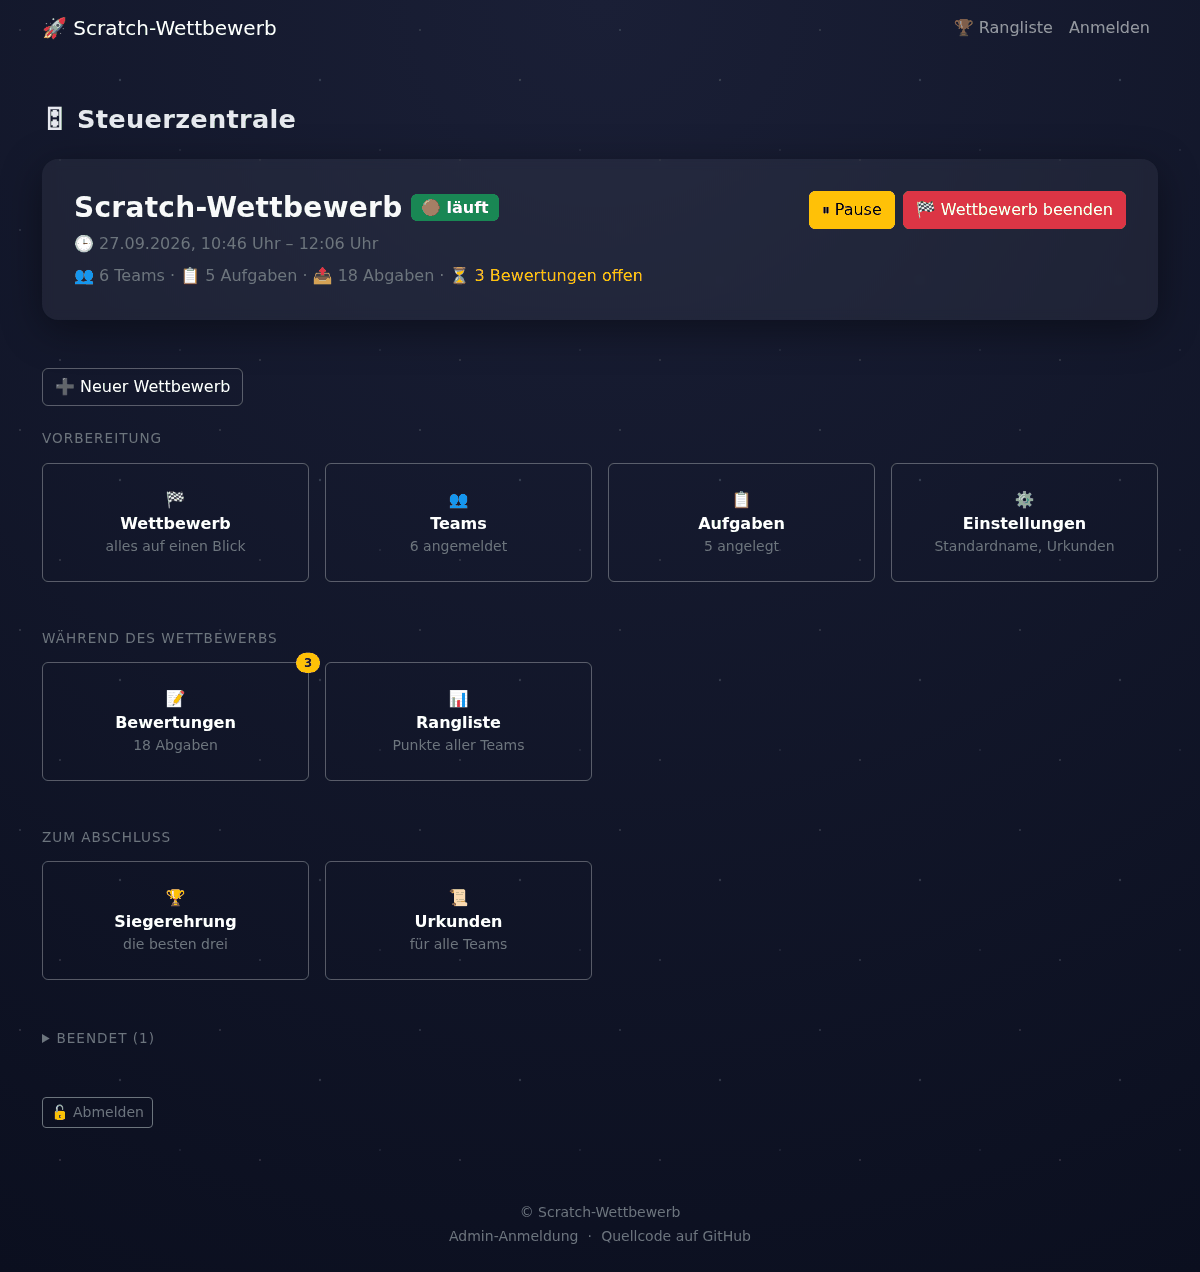
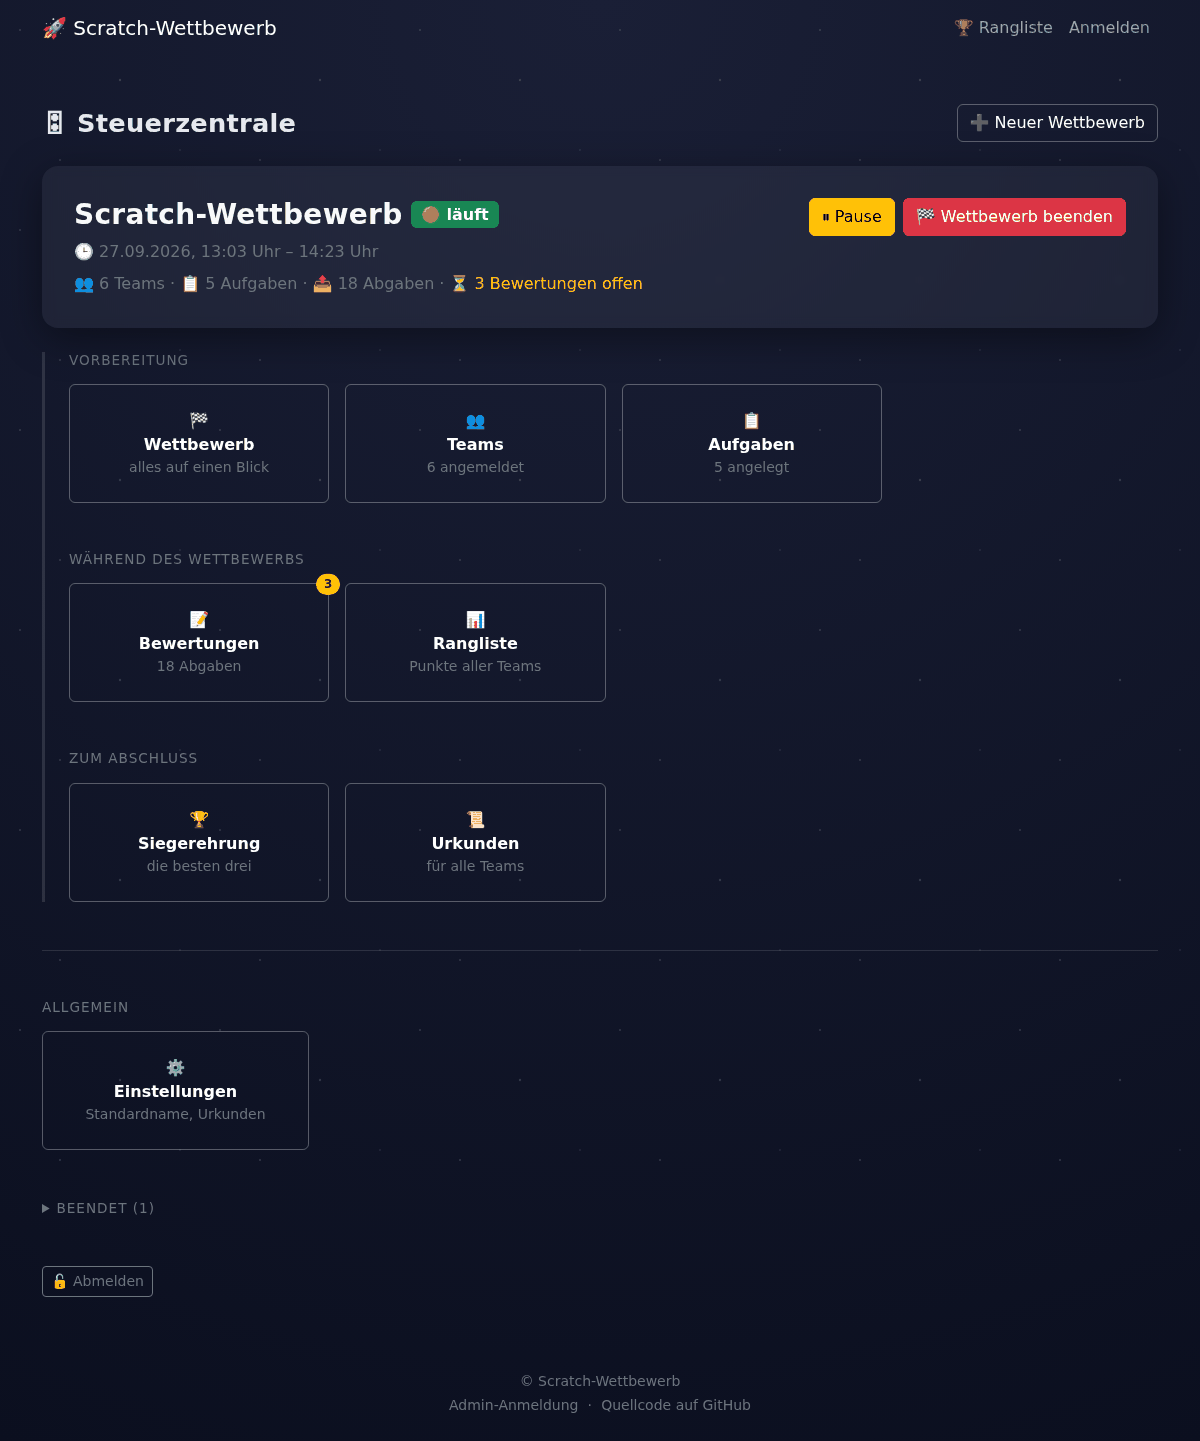
Laufenden Wettbewerb und Allgemeines trennen
Auf der Steuerzentrale stand alles in einer Reihe: die Kacheln zum
laufenden Wettbewerb und mittendrin "Einstellungen", die für die ganze
Installation gilt - Standardname, Urkundenformat, Unterschrift. Man sah
der Seite nicht an, was wovon abhängt.

Jetzt hat die Seite zwei Teile. Oben der laufende Wettbewerb: die
Statuszeile und darunter die drei Kachelgruppen, die eine Linie am linken
Rand sichtbar an sie hängt. Darunter, hinter einer Trennlinie, das
Allgemeine: die Kachel "Einstellungen" in einer eigenen Gruppe
"Allgemein", dann die weiteren Wettbewerbe und die beendeten.

"Neuer Wettbewerb" steht in der Kopfzeile neben der Überschrift. Der Knopf
gilt allgemein und hat im Bereich des laufenden Wettbewerbs nichts zu
suchen; oben bleibt er trotzdem das Erste, was man greift.

README und der Screenshot der Steuerzentrale sind mitgezogen.

Claude-Session: https://claude.ai/code/session_01WjnfkVCAnab863MntGNVAf

diff --git a/templates/admin/dashboard.html b/templates/admin/dashboard.html
@@ -1,7 +1,14 @@
 {% extends "base.html" %}
 {% block content %}
 
-<h2 class="mb-4">🎛 Steuerzentrale</h2>
+<div class="d-flex flex-wrap justify-content-between align-items-center gap-3 mb-4">
+  <h2 class="mb-0">🎛 Steuerzentrale</h2>
+  {% if challenge %}
+  <a href="{{ url_for('admin.challenge_new') }}" class="btn btn-outline-light">
+    ➕ Neuer Wettbewerb
+  </a>
+  {% endif %}
+</div>
 
 {% if not challenge %}
 
@@ -31,7 +38,9 @@
 {% set here = url_for('admin.dashboard') %}
 
 <!-- ===== STATUSZEILE: der aktuelle Wettbewerb ===== -->
-<div class="event-card mb-5">
+<!-- Knapper Abstand nach unten: Die Kachelgruppen darunter gehoeren zu
+     diesem Wettbewerb und sollen an der Statuszeile haengen. -->
+<div class="event-card mb-4">
   <div class="d-flex flex-wrap justify-content-between align-items-start gap-3">
 
     <div>
@@ -104,11 +113,11 @@
   </div>
 </div>
 
-<div class="mb-4">
-  <a href="{{ url_for('admin.challenge_new') }}" class="btn btn-outline-light">
-    ➕ Neuer Wettbewerb
-  </a>
-</div>
+<!-- ===== DER LAUFENDE WETTBEWERB =====
+     Die Linie am linken Rand haengt die drei Gruppen sichtbar an die
+     Statuszeile darueber: Alles hier drin meint diesen einen Wettbewerb.
+     Was darunter folgt, gilt fuer die ganze Installation. -->
+<div class="wettbewerb-bereich mb-5">
 
 <!-- ===== VORBEREITUNG ===== -->
 <!-- Reihenfolge wie auf der Wettbewerbsseite: erst der Wettbewerb selbst,
@@ -131,12 +140,6 @@
     <a href="{{ url_for('admin.challenge_tasks', cid=challenge.id) }}" class="btn btn-outline-light w-100 h-100 py-4">
       📋<br><strong>Aufgaben</strong>
       <div class="small text-secondary">{{ overview.tasks }} angelegt</div>
-    </a>
-  </div>
-  <div class="col-md-3 col-6">
-    <a href="{{ url_for('admin.settings') }}" class="btn btn-outline-light w-100 h-100 py-4">
-      ⚙<br><strong>Einstellungen</strong>
-      <div class="small text-secondary">Standardname, Urkunden</div>
     </a>
   </div>
 </div>
@@ -176,6 +179,24 @@
     <a href="{{ url_for('admin.certificates_print') }}" class="btn btn-outline-light w-100 h-100 py-4">
       📜<br><strong>Urkunden</strong>
       <div class="small text-secondary">für alle Teams</div>
+    </a>
+  </div>
+</div>
+
+</div><!-- /.wettbewerb-bereich -->
+
+<hr class="bereich-trenner mb-5">
+
+<!-- ===== ALLGEMEIN ===== -->
+<!-- Die Einstellungen gelten der ganzen Installation - Standardname,
+     Urkundenformat, Unterschrift. In der Reihe mit Teams und Aufgaben
+     las sie sich, als gehoerte sie zum laufenden Wettbewerb. -->
+<h5 class="text-secondary text-uppercase mb-3 section-label">Allgemein</h5>
+<div class="row g-3 mb-5">
+  <div class="col-md-3 col-6">
+    <a href="{{ url_for('admin.settings') }}" class="btn btn-outline-light w-100 h-100 py-4">
+      ⚙<br><strong>Einstellungen</strong>
+      <div class="small text-secondary">Standardname, Urkunden</div>
     </a>
   </div>
 </div>

diff --git a/static/style.css b/static/style.css
@@ -314,3 +314,23 @@ input::placeholder, textarea::placeholder {
 .wettbewerbe-beendet > summary:hover {
   color: #fff;
 }
+
+/* ====== Der laufende Wettbewerb in der Steuerzentrale ====== */
+/* Die Linie hängt die drei Kachelgruppen sichtbar an die Statuszeile: Alles
+   dahinter meint den einen Wettbewerb, der oben steht. Alles darunter -
+   Einstellungen, weitere Wettbewerbe - gilt der ganzen Installation. */
+.wettbewerb-bereich {
+  border-left: 3px solid rgba(255, 255, 255, 0.12);
+  padding-left: 1.5rem;
+}
+
+@media (max-width: 576px) {
+  .wettbewerb-bereich {
+    padding-left: 0.9rem;
+  }
+}
+
+.bereich-trenner {
+  border-color: rgba(255, 255, 255, 0.12);
+  opacity: 1;
+}

diff --git a/tests/test_admin.py b/tests/test_admin.py
@@ -141,6 +141,29 @@ class TestSteuerzentrale:
         assert "⏸ pausiert" in unten
         assert "🕒 geplant" in unten
 
+    def test_einstellungen_stehen_unter_allgemein(self, admin, make_challenge):
+        """Die Einstellungen gelten der Installation, nicht diesem Wettbewerb.
+
+        In der Reihe mit Wettbewerb, Teams und Aufgaben las sich die Kachel,
+        als gehörte sie zum laufenden Wettbewerb.
+        """
+        make_challenge(title="Aktueller Wettbewerb", active=True)
+
+        html = admin.get("/admin/dashboard").get_data(as_text=True)
+
+        oben, unten = html.split("Allgemein", 1)
+        assert "/admin/settings" not in oben.split("Vorbereitung", 1)[1]
+        assert "/admin/settings" in unten
+
+    def test_neuer_wettbewerb_steht_ueber_dem_laufenden(self, admin, make_challenge):
+        """Der Knopf gilt allgemein und steht deshalb in der Kopfzeile."""
+        make_challenge(title="Aktueller Wettbewerb", active=True)
+
+        html = admin.get("/admin/dashboard").get_data(as_text=True)
+
+        # Die erste event-card auf der Seite ist die Statuszeile.
+        assert html.index("/admin/challenges/new") < html.index("event-card")
+
     def test_alte_uebersichtsseite_leitet_auf_die_steuerzentrale(self, admin):
         antwort = admin.get("/admin/challenges")
 

diff --git a/README.md b/README.md
@@ -65,7 +65,7 @@ Für den Wettbewerbstag selbst: [Leitfaden](#-leitfaden-für-den-wettbewerbstag)
 *   **Eigene Urkunde als PDF**: nach dem Ende des Wettbewerbs selbst herunterladbar.
 
 ### Für die Lehrkraft
-*   **Steuerzentrale**: Zustand, Teams, Aufgaben und offene Bewertungen auf einen Blick, die Kacheln nach Vorbereitung, Während des Wettbewerbs und Zum Abschluss sortiert. Darunter stehen die anderen Wettbewerbe, die beendeten zugeklappt für sich.
+*   **Steuerzentrale**: Zustand, Teams, Aufgaben und offene Bewertungen auf einen Blick, die Kacheln nach Vorbereitung, Während des Wettbewerbs und Zum Abschluss sortiert. Eine Linie am Rand hält zusammen, was zum laufenden Wettbewerb gehört; darunter stehen abgesetzt die Einstellungen der Installation und die anderen Wettbewerbe, die beendeten zugeklappt für sich.
 *   **Wettbewerbe verwalten**: anlegen, aktivieren, pausieren, beenden und wieder öffnen – alles auf der Steuerzentrale. Beim Anlegen lassen sich die Teams eines früheren Wettbewerbs übernehmen, mit Passwort und den Namen für die Urkunde.
 *   **Eigener Name je Wettbewerb**: Name und Untertitel stehen überall – Startseite, Rangliste, Teamseite, Urkunden, Browsertitel, Leiste oben und Fußzeile – und bleiben beim Wettbewerb, wenn längst ein anderer läuft.
 *   **Aufgaben**: Beschreibung in Markdown, erlaubtes Dateiformat, Schwierigkeit (einfach, mittel, schwer oder keine Angabe), optionaler Tipp. Aufgaben lassen sich als JSON sichern, weitergeben und in einen anderen Wettbewerb einlesen — ohne Abgaben und Punkte. Fertige Sätze für Scratch und Calliope liegen unter `beispiele/` und sind mit einem Klick eingelesen.
